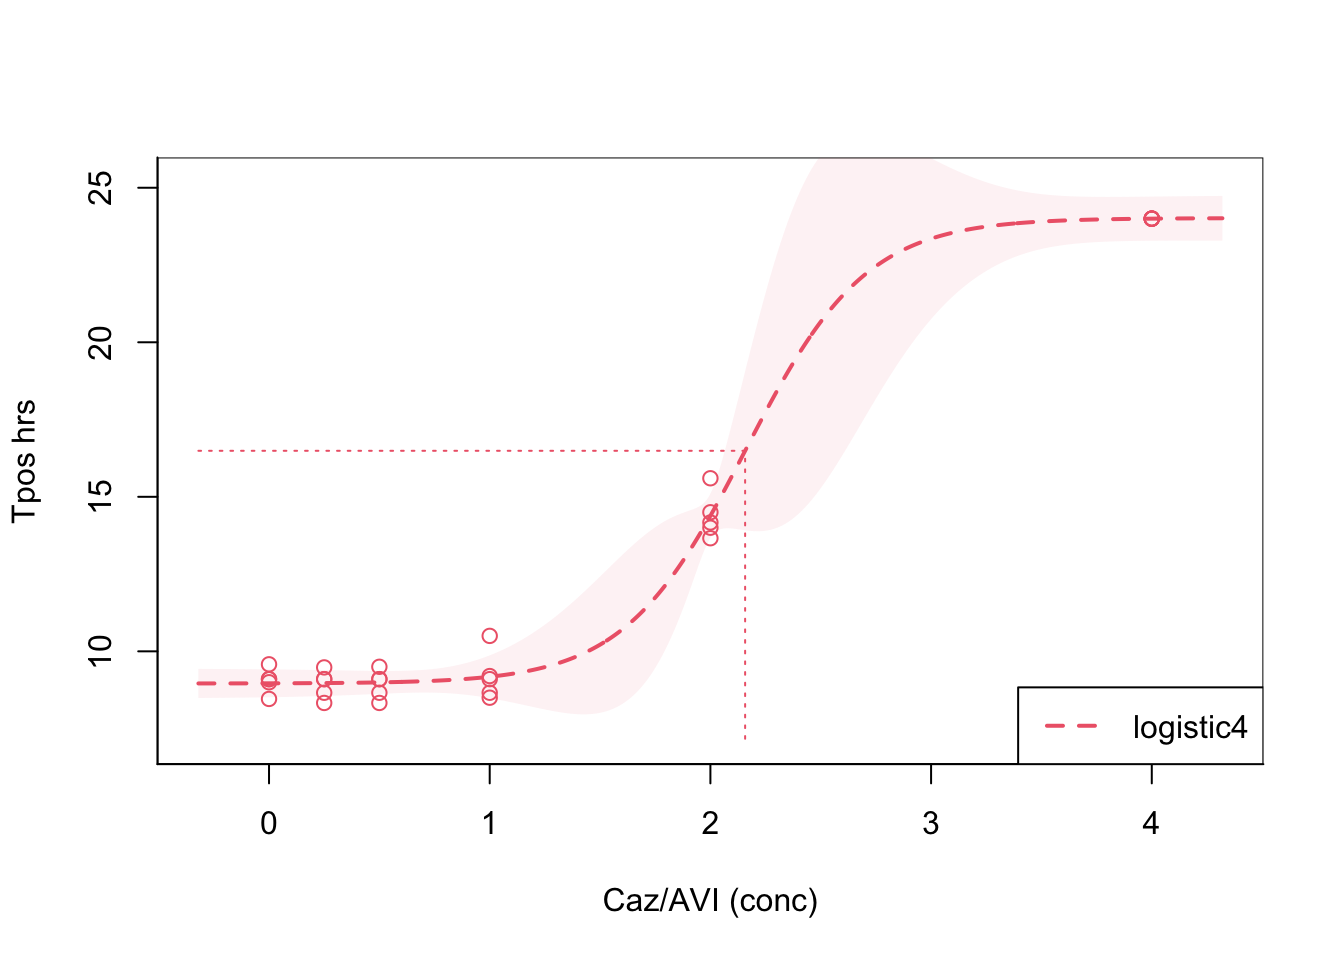
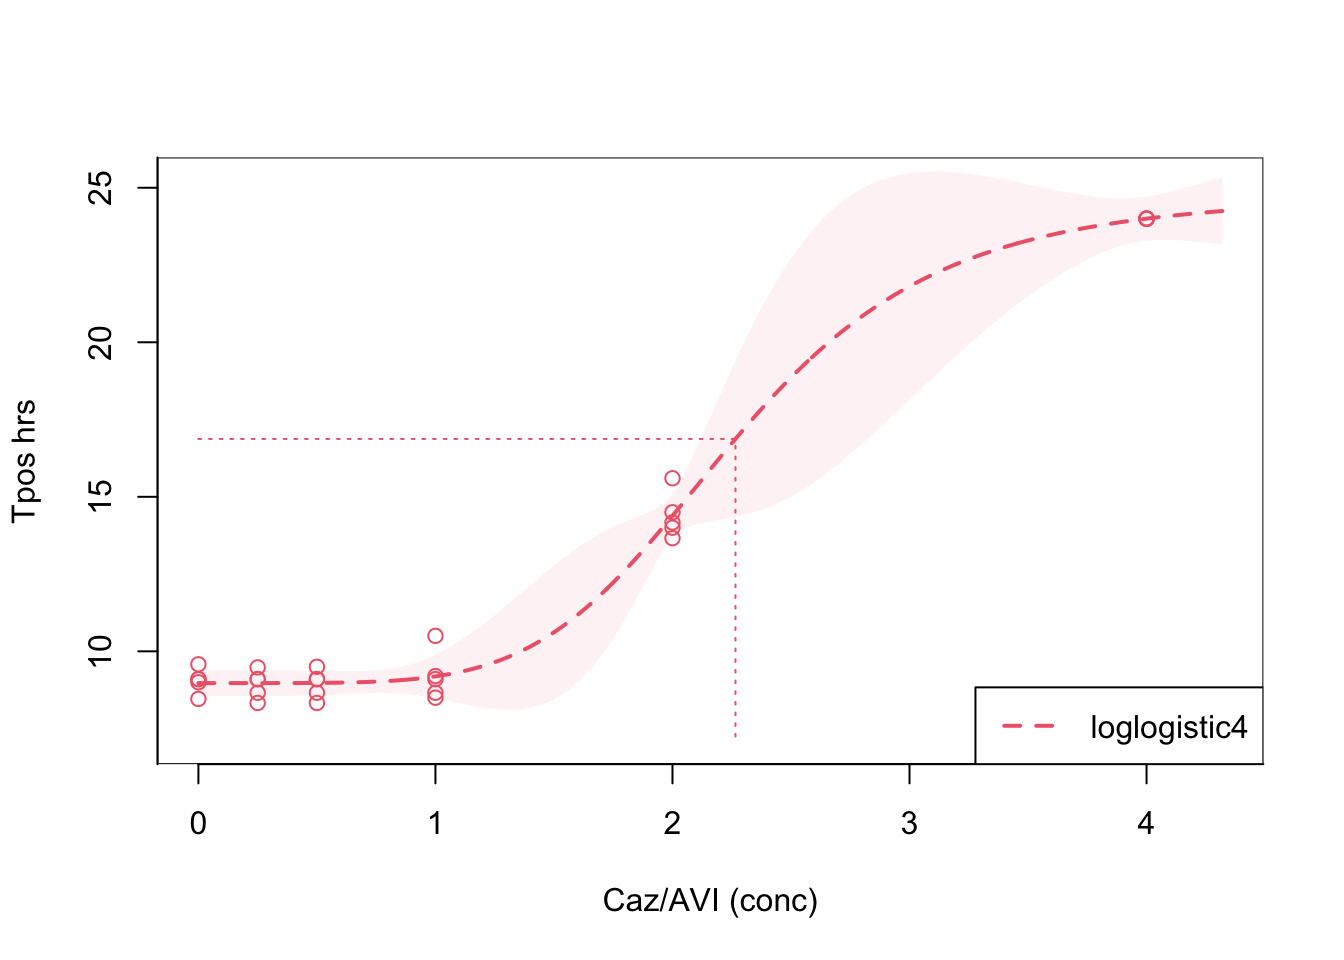
revision

diff --git a/docs/Workpackage_1.html b/docs/Workpackage_1.html
@@ -165,7 +165,7 @@ div.csl-indent {
 <h2 class="anchored" data-anchor-id="package-1a">Package 1A</h2>
 <p><strong>Establishing the quantitative relationship of TPOS and KPC-<em>Klebsiella pneumoniae</em> inoculum in blood culture bottles.</strong> <br> A modification of the methods proposed by Kaltsas et al.<span class="citation" data-cites="kaltsas2005"><sup><a href="#ref-kaltsas2005" role="doc-biblioref">1</a></sup></span> Detailed methods can be found following this <a href="Protocols.html">link</a>.</p>
 <p>Briefly, tubes containing 1.8 mL of pooled healthy human serum were inoculated with 0.2 mL of a series of seven ten-fold dilutions (5x10<sup>1</sup> to 5x10<sup>7</sup> CFU/mL) of the standardised inoculum of each test indicator strains. The inoculated sera were then transferred into BacT⁄ALERT bottles without inactivating matrix (Biomérieux Inc) for aerobic incubation and monitored for time to positivity. Tpos results were used to establish preliminary assay quality control ranges by testing in triplicate for five KPC-carbapenemase producing <em>K. pneumoniae</em> strains (KPC_KPCA,B,C and NDM, and VIM producing strains) and a reference <em>K. pneumoniae</em> ATCC strain producing ESBL only. Detailed information on the isolates can be found <a href="Protocols.html">here</a>. We also compared how inoculation of the organism suspension prepared in phosphate buffered saline (pbs-0.9%) versus pooled human serum (serum) affected Tpos.</p>
-<p><a href="#figure-1.-tpos-vs.-test-inoculum">Figure 1. Tpos vs.&nbsp;test inoculum</a> shows the relationship between Tpos and the <em>K. pneumoniae</em> inoculum fitted by linear regression. A linear relationship was evident from approximately 10<sup>1</sup>-10<sup>8</sup> <em>K. pneumoniae</em> CFU/mL and a Tpos measured from 10.5 hours-4.5 hours over the tested inoculum range. <em>These data suggest Tpos has a high dynamic range as an indicator for viable CFU/mL.</em></p>
+<p>Figure 1. Tpos vs.&nbsp;test inoculum shows the relationship between Tpos and the <em>K. pneumoniae</em> inoculum. A linear relationship was evident from approximately 10<sup>1</sup>-10<sup>8</sup> <em>K. pneumoniae</em> CFU/mL and a Tpos measured from 10.5 hours-4.5 hours over the tested inoculum range, with R<sup>2</sup> of 0.92-0.94. <em>These data show Tpos has a wide dynamic range as an indicator for viable CFU/mL.</em></p>
 <div style="red">
 <p>Note<em>: we need to add a special note about the actual inoculum in the bottle</em></p>
 </div>
@@ -213,6 +213,7 @@ div.csl-indent {
 </div>
 </div>
 <p><br></p>
+<p>The effect of increasing fixed ceftazidime/avibactam (CAZ/AVI) concentrations (x:x) on Tpos was investigated at an inoculum of 1x10<sup>4</sup> CFU/mL of <em>K. pneumoniae</em> KPC_B (MIC X mg/L) and <em>K. pneumonia</em> NDM producing isolate (negative control, MIC X mg/L ). All experiments were performed in triplicate with an incubation period of 24 hours. Figure 2 shows a marked increased in the Tpos for KPC_B from &lt; 10 hrs to <u>&gt;</u> 24 hrs at concentrations &gt; 1 mg/L. In contrast, the negative control KPC_NDM strain exhibited consistent Tpos &lt; 10hr at all concentrations tested consistent with lack of antimicrobial activity.</p>
 </section>
 <section id="figure-2.-impact-of-cazavi-concentrations-on-tpos" class="level3">
 <h3 class="anchored" data-anchor-id="figure-2.-impact-of-cazavi-concentrations-on-tpos">Figure 2. Impact of CAZ/AVI concentrations on Tpos</h3>
@@ -221,6 +222,9 @@ div.csl-indent {
 <p><img src="Workpackage_1_files/figure-html/unnamed-chunk-3-1.png" class="img-fluid" width="672"></p>
 </div>
 </div>
+<p>A four-parameter logistic regression model was fit to the experimental data (Figure 3) for the KPC_B strain (Figure 3). The model estimated an EC<sub>50</sub> for the total Tpos effect at CAZ/AVI 2.15 mg/L (95% CI 2.04-2.27). The EC<sub>90</sub> was estimated at 2.75 mg/L (95% CI 2.21-3.30).</p>
+<p><br></p>
+<p><br></p>
 </section>
 <section id="figure-3.-in-vitro-pharmacodynamics-of-cazavi-concentrations-vs.-tpos" class="level3">
 <h3 class="anchored" data-anchor-id="figure-3.-in-vitro-pharmacodynamics-of-cazavi-concentrations-vs.-tpos">Figure 3. In vitro pharmacodynamics of CAZ/AVI concentrations vs.&nbsp;Tpos</h3>
@@ -230,30 +234,60 @@ div.csl-indent {
 </div>
 </div>
 <div class="cell">
-<div class="cell-output cell-output-stdout">
-<pre><code>
-Call: drda(formula = tpos ~ conc, data = wp2, mean_function = "logistic4", 
-    max_iter = 1000)
 
-Pearson Residuals:
-     Min        1Q    Median        3Q       Max  
--1.40020  -0.63581   0.00006   0.24329   2.54945  
+</div>
+<div class="cell">
+<div class="cell-output-display">
 
-Parameters:
-                  Estimate Std. Error Lower .95 Upper .95
-Minimum             8.9594    0.15665     8.652     9.266
-Height             15.0587    0.30239    14.466    15.651
-Growth rate         3.6462    1.36438     0.972     6.320
-Midpoint at         2.1573    0.05969     2.040     2.274
-Residual std err.   0.5187    0.07487     0.372     0.665
+<table class=" lightable-paper lightable-hover" style="font-family: &quot;Arial Narrow&quot;, arial, helvetica, sans-serif; width: auto !important; ">
+ <thead>
+  <tr>
+   <th style="text-align:left;">   </th>
+   <th style="text-align:right;"> Estimate </th>
+   <th style="text-align:right;"> Lower .95 </th>
+   <th style="text-align:right;"> Upper .95 </th>
+  </tr>
+ </thead>
+<tbody>
+  <tr>
+   <td style="text-align:left;"> 0.1 </td>
+   <td style="text-align:right;"> 1.554736 </td>
+   <td style="text-align:right;"> 1.253729 </td>
+   <td style="text-align:right;"> 1.855743 </td>
+  </tr>
+  <tr>
+   <td style="text-align:left;"> 0.25 </td>
+   <td style="text-align:right;"> 1.856043 </td>
+   <td style="text-align:right;"> 1.750759 </td>
+   <td style="text-align:right;"> 1.961327 </td>
+  </tr>
+  <tr>
+   <td style="text-align:left;"> 0.5 </td>
+   <td style="text-align:right;"> 2.157349 </td>
+   <td style="text-align:right;"> 2.038163 </td>
+   <td style="text-align:right;"> 2.276536 </td>
+  </tr>
+  <tr>
+   <td style="text-align:left;"> 0.75 </td>
+   <td style="text-align:right;"> 2.458656 </td>
+   <td style="text-align:right;"> 2.127602 </td>
+   <td style="text-align:right;"> 2.789710 </td>
+  </tr>
+  <tr>
+   <td style="text-align:left;"> 0.9 </td>
+   <td style="text-align:right;"> 2.759963 </td>
+   <td style="text-align:right;"> 2.216534 </td>
+   <td style="text-align:right;"> 3.303391 </td>
+  </tr>
+  <tr>
+   <td style="text-align:left;"> 0.95 </td>
+   <td style="text-align:right;"> 2.964895 </td>
+   <td style="text-align:right;"> 2.277116 </td>
+   <td style="text-align:right;"> 3.652674 </td>
+  </tr>
+</tbody>
+</table>
 
-Residual standard error on 26 degrees of freedom
-
-Log-likelihood: -20.729
-AIC: 51.457
-BIC: 58.463
-
-Optimization algorithm converged in 336 iterations</code></pre>
 </div>
 </div>
 
